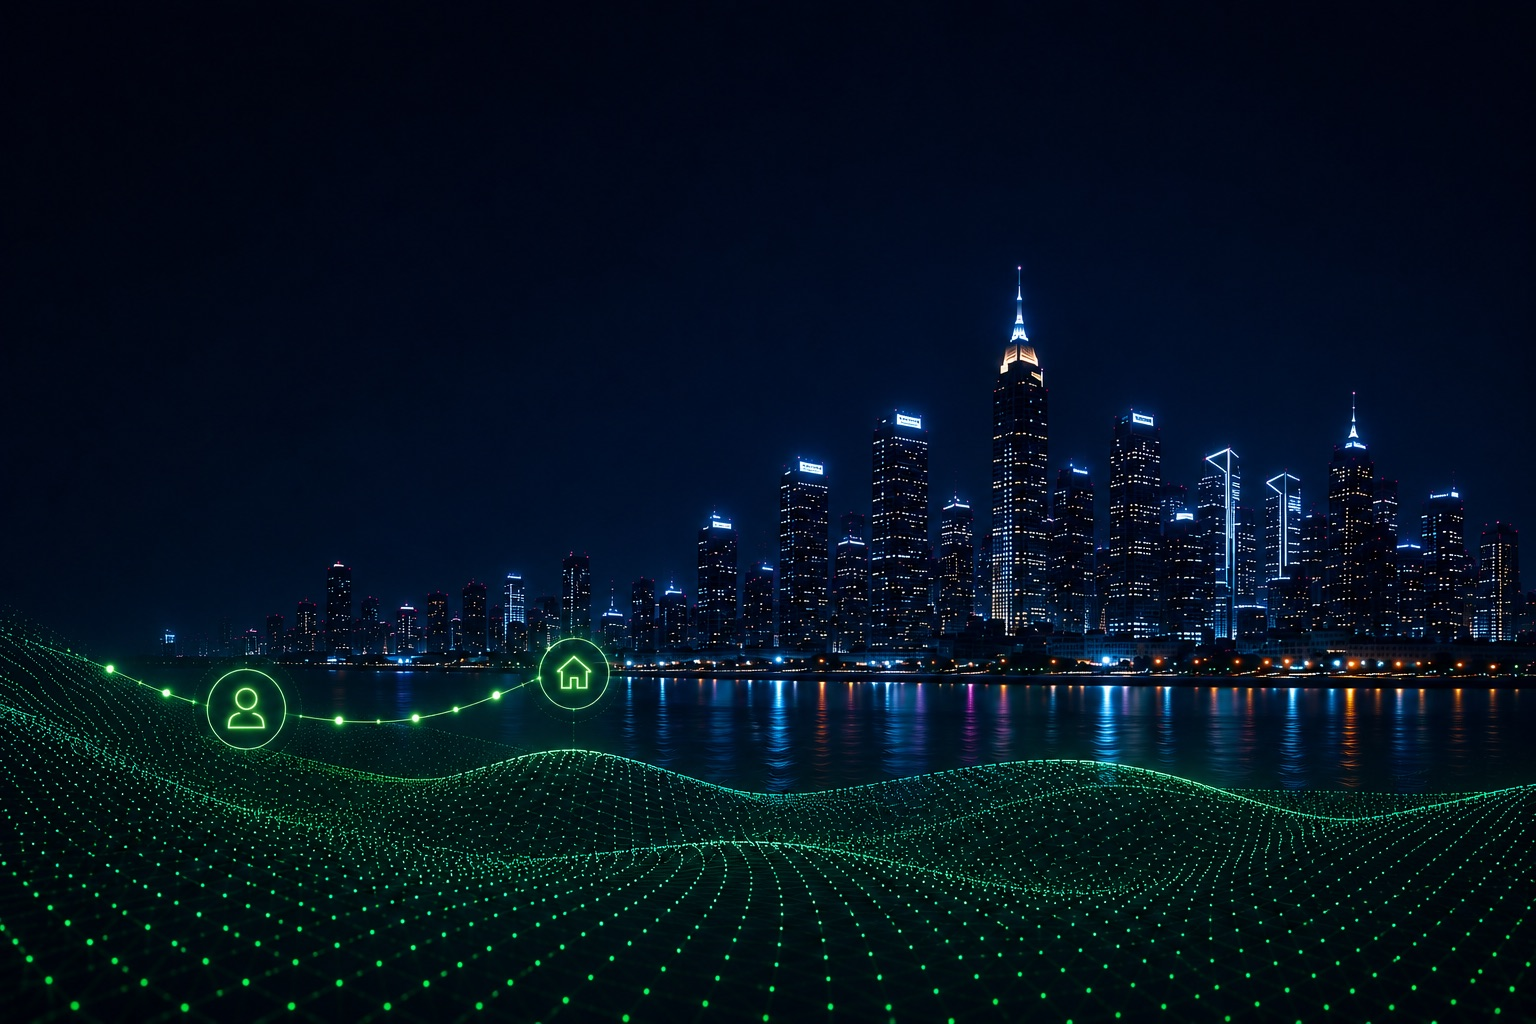
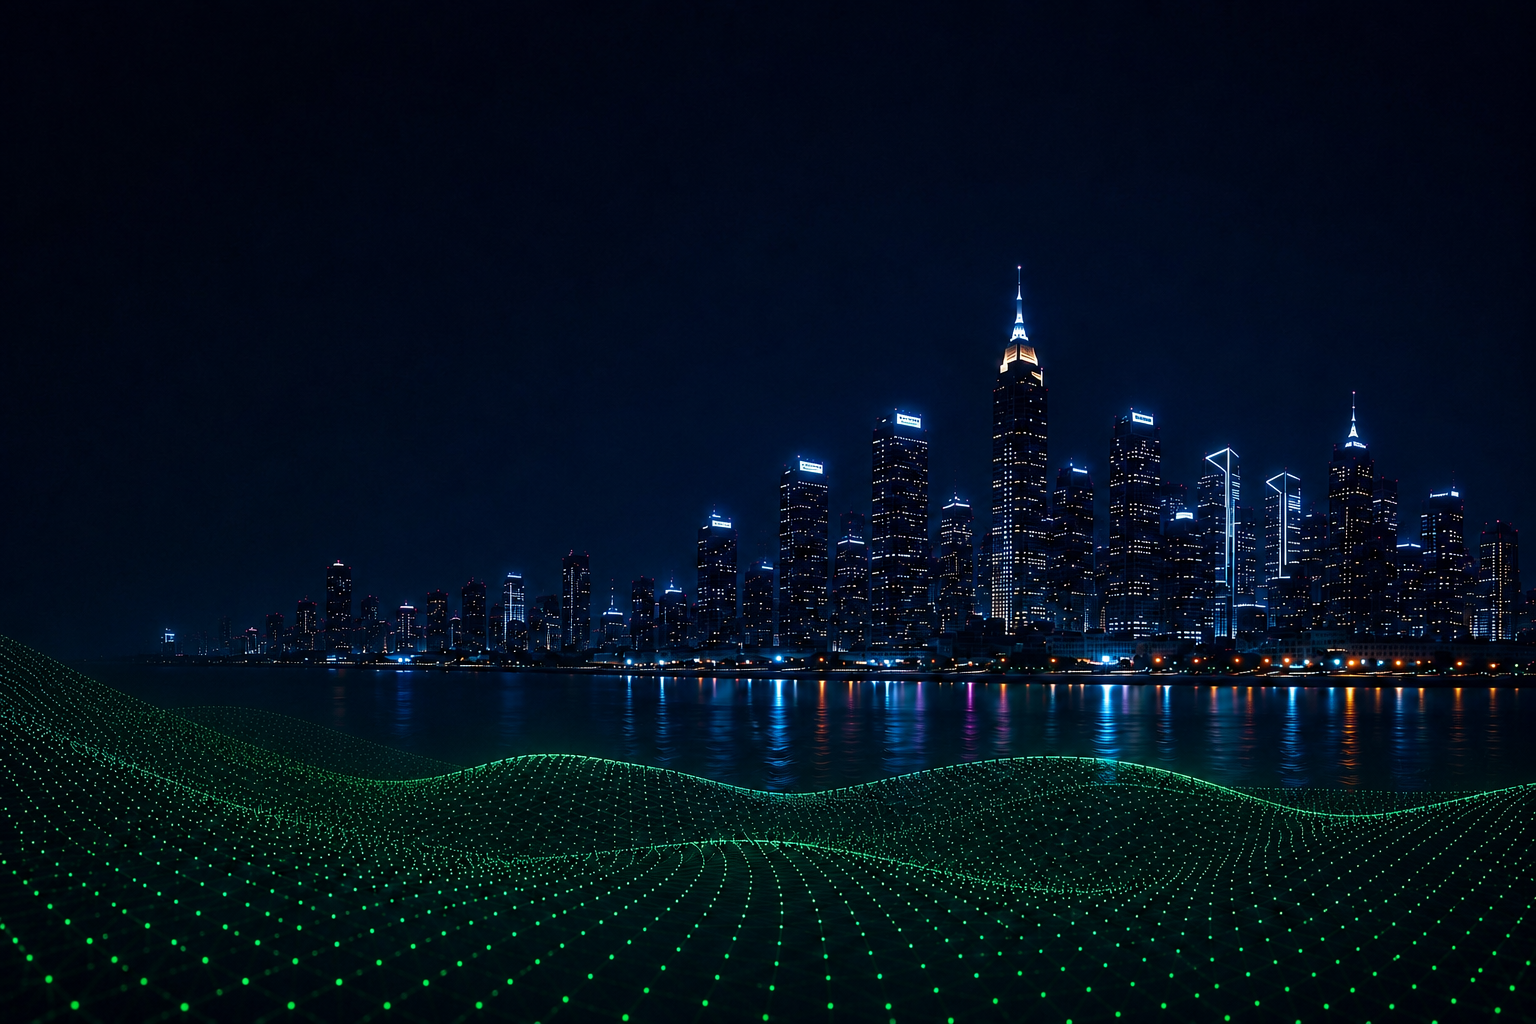
Marketing: remove Google Play badge + refresh background image

diff --git a/www/marketing.html b/www/marketing.html
@@ -131,7 +131,7 @@
   /* Hero: two-column layout over the city/podium image as a backdrop. */
   .hero{position:relative;padding:60px 0 56px;overflow:hidden;}
   .hero::before{content:"";position:absolute;inset:0;z-index:0;
-    background:url('images/marketing-bg.jpg?v=2') center bottom/cover no-repeat;}
+    background:url('images/marketing-bg.jpg?v=3') center bottom/cover no-repeat;}
   .hero::after{content:"";position:absolute;inset:0;z-index:0;pointer-events:none;
     background:
       linear-gradient(90deg,rgba(6,12,22,0.82) 0%,rgba(6,12,22,0.4) 40%,rgba(6,12,22,0.12) 100%),
@@ -539,10 +539,6 @@
             <i class="fab fa-apple"></i>
             <span class="sb-txt"><span class="sb-small">Download on the</span><span class="sb-big">App Store</span></span>
           </a>
-          <a class="store-badge" href="#" onclick="rmDownload(event,'android')" aria-label="Get it on Google Play">
-            <i class="fab fa-google-play"></i>
-            <span class="sb-txt"><span class="sb-small">Get it on</span><span class="sb-big">Google Play</span></span>
-          </a>
         </div>
         <div class="hero-meta">
           <div class="av"><span>A</span><span>V</span><span>R</span></div>
@@ -826,10 +822,6 @@
         <a class="store-badge" href="#" onclick="rmDownload(event,'ios')" aria-label="Download on the App Store">
           <i class="fab fa-apple"></i>
           <span class="sb-txt"><span class="sb-small">Download on the</span><span class="sb-big">App Store</span></span>
-        </a>
-        <a class="store-badge" href="#" onclick="rmDownload(event,'android')" aria-label="Get it on Google Play">
-          <i class="fab fa-google-play"></i>
-          <span class="sb-txt"><span class="sb-small">Get it on</span><span class="sb-big">Google Play</span></span>
         </a>
       </div>
     </div>
